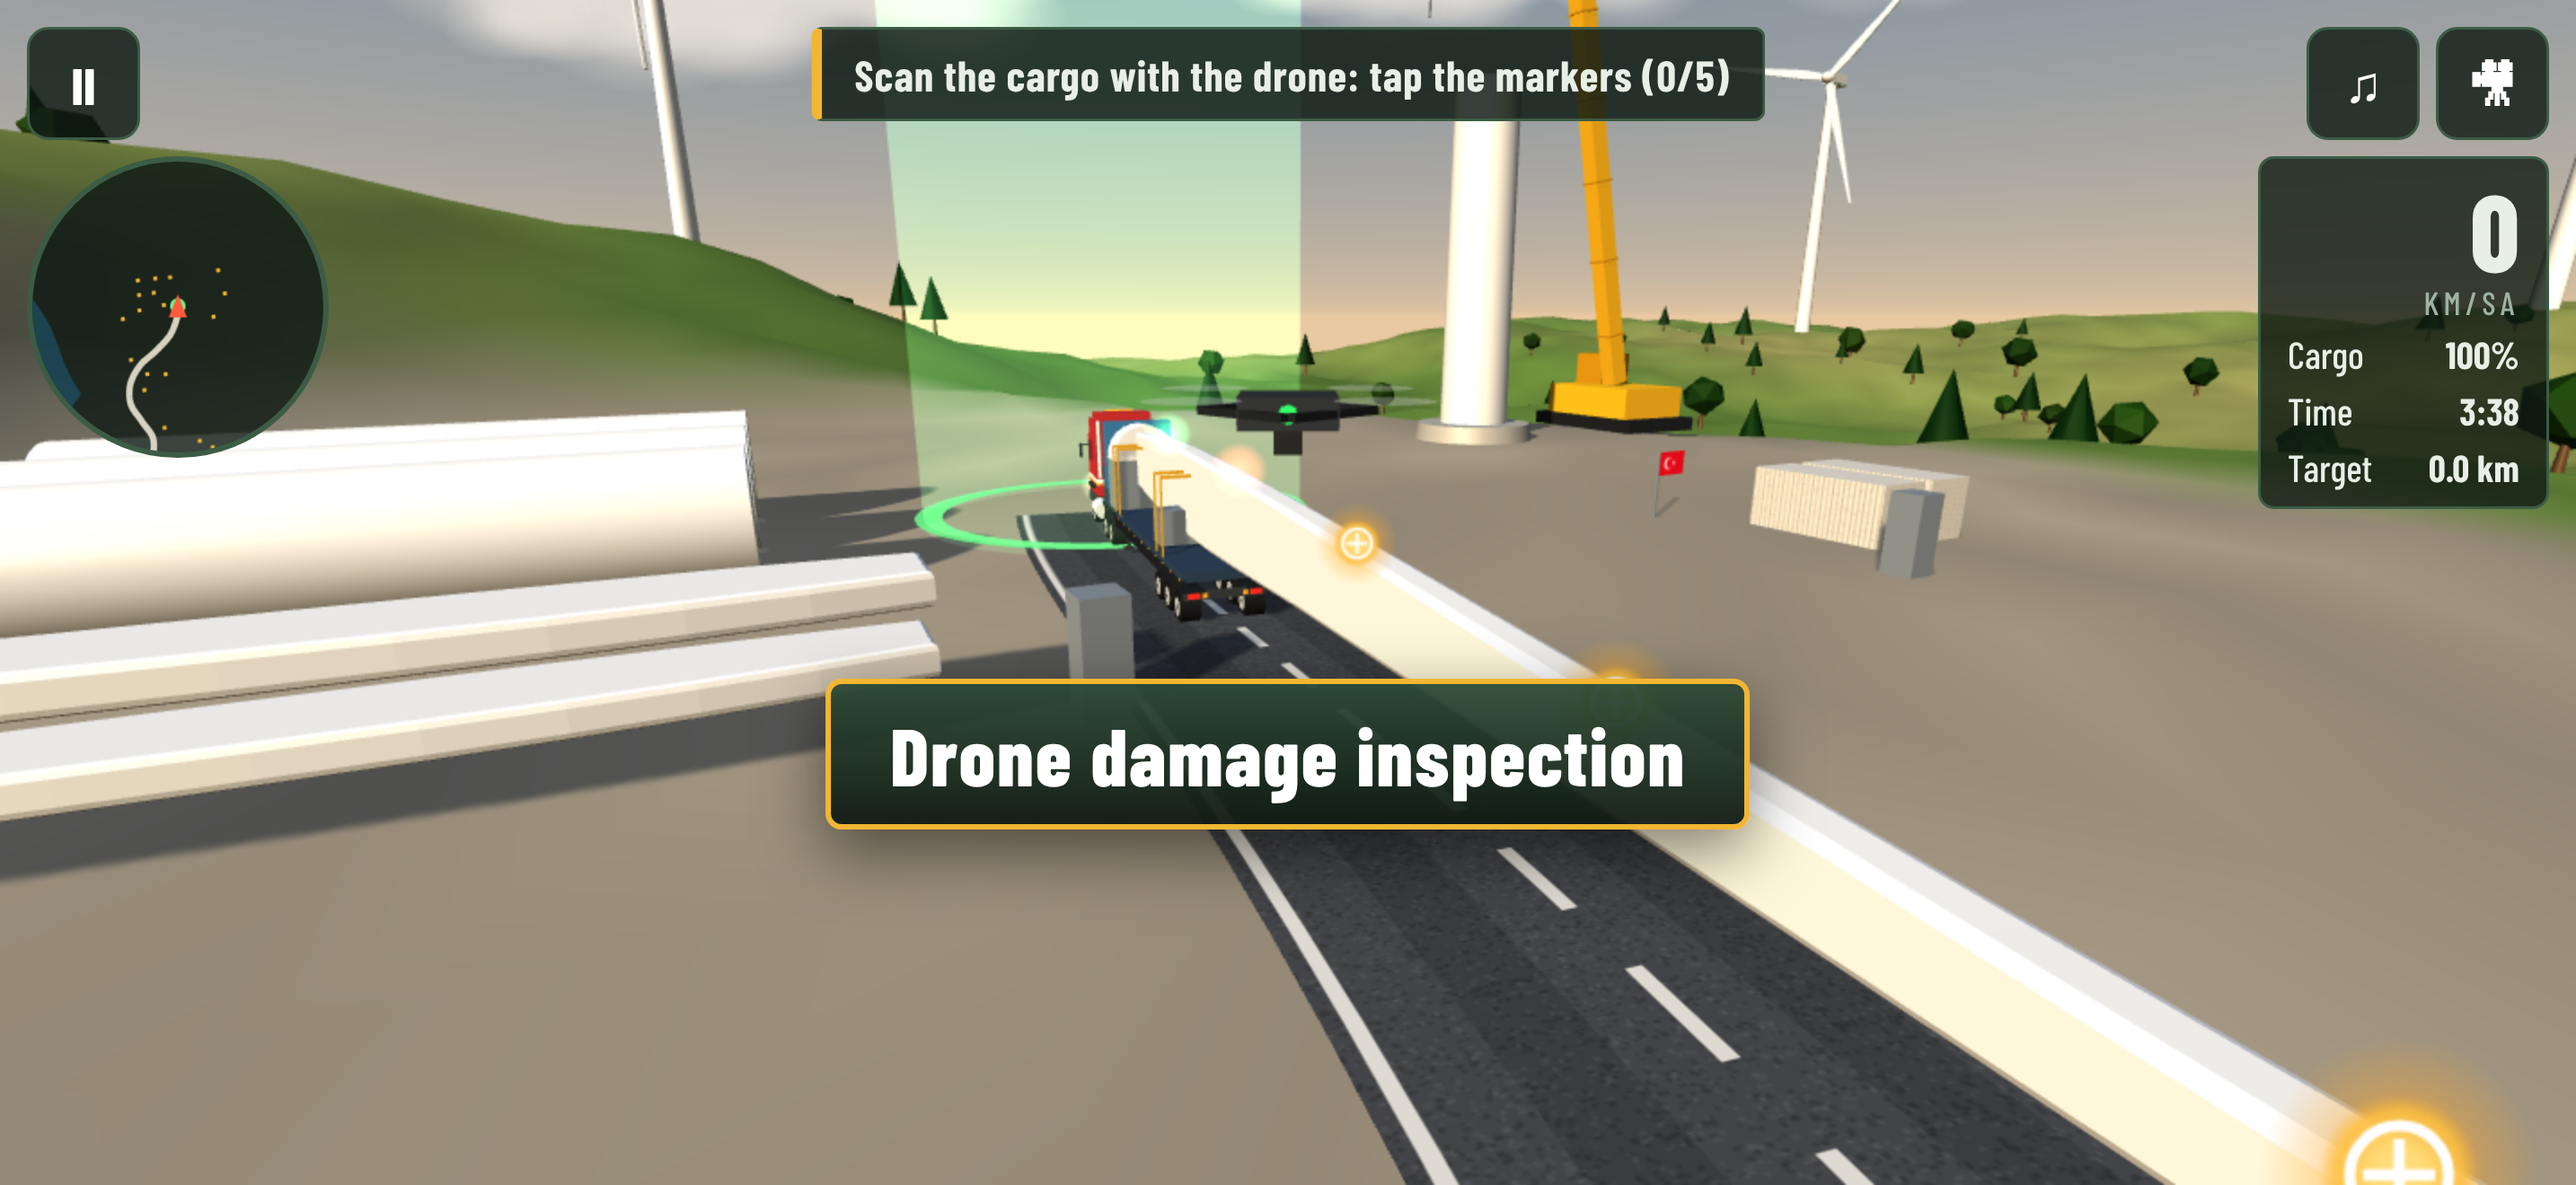
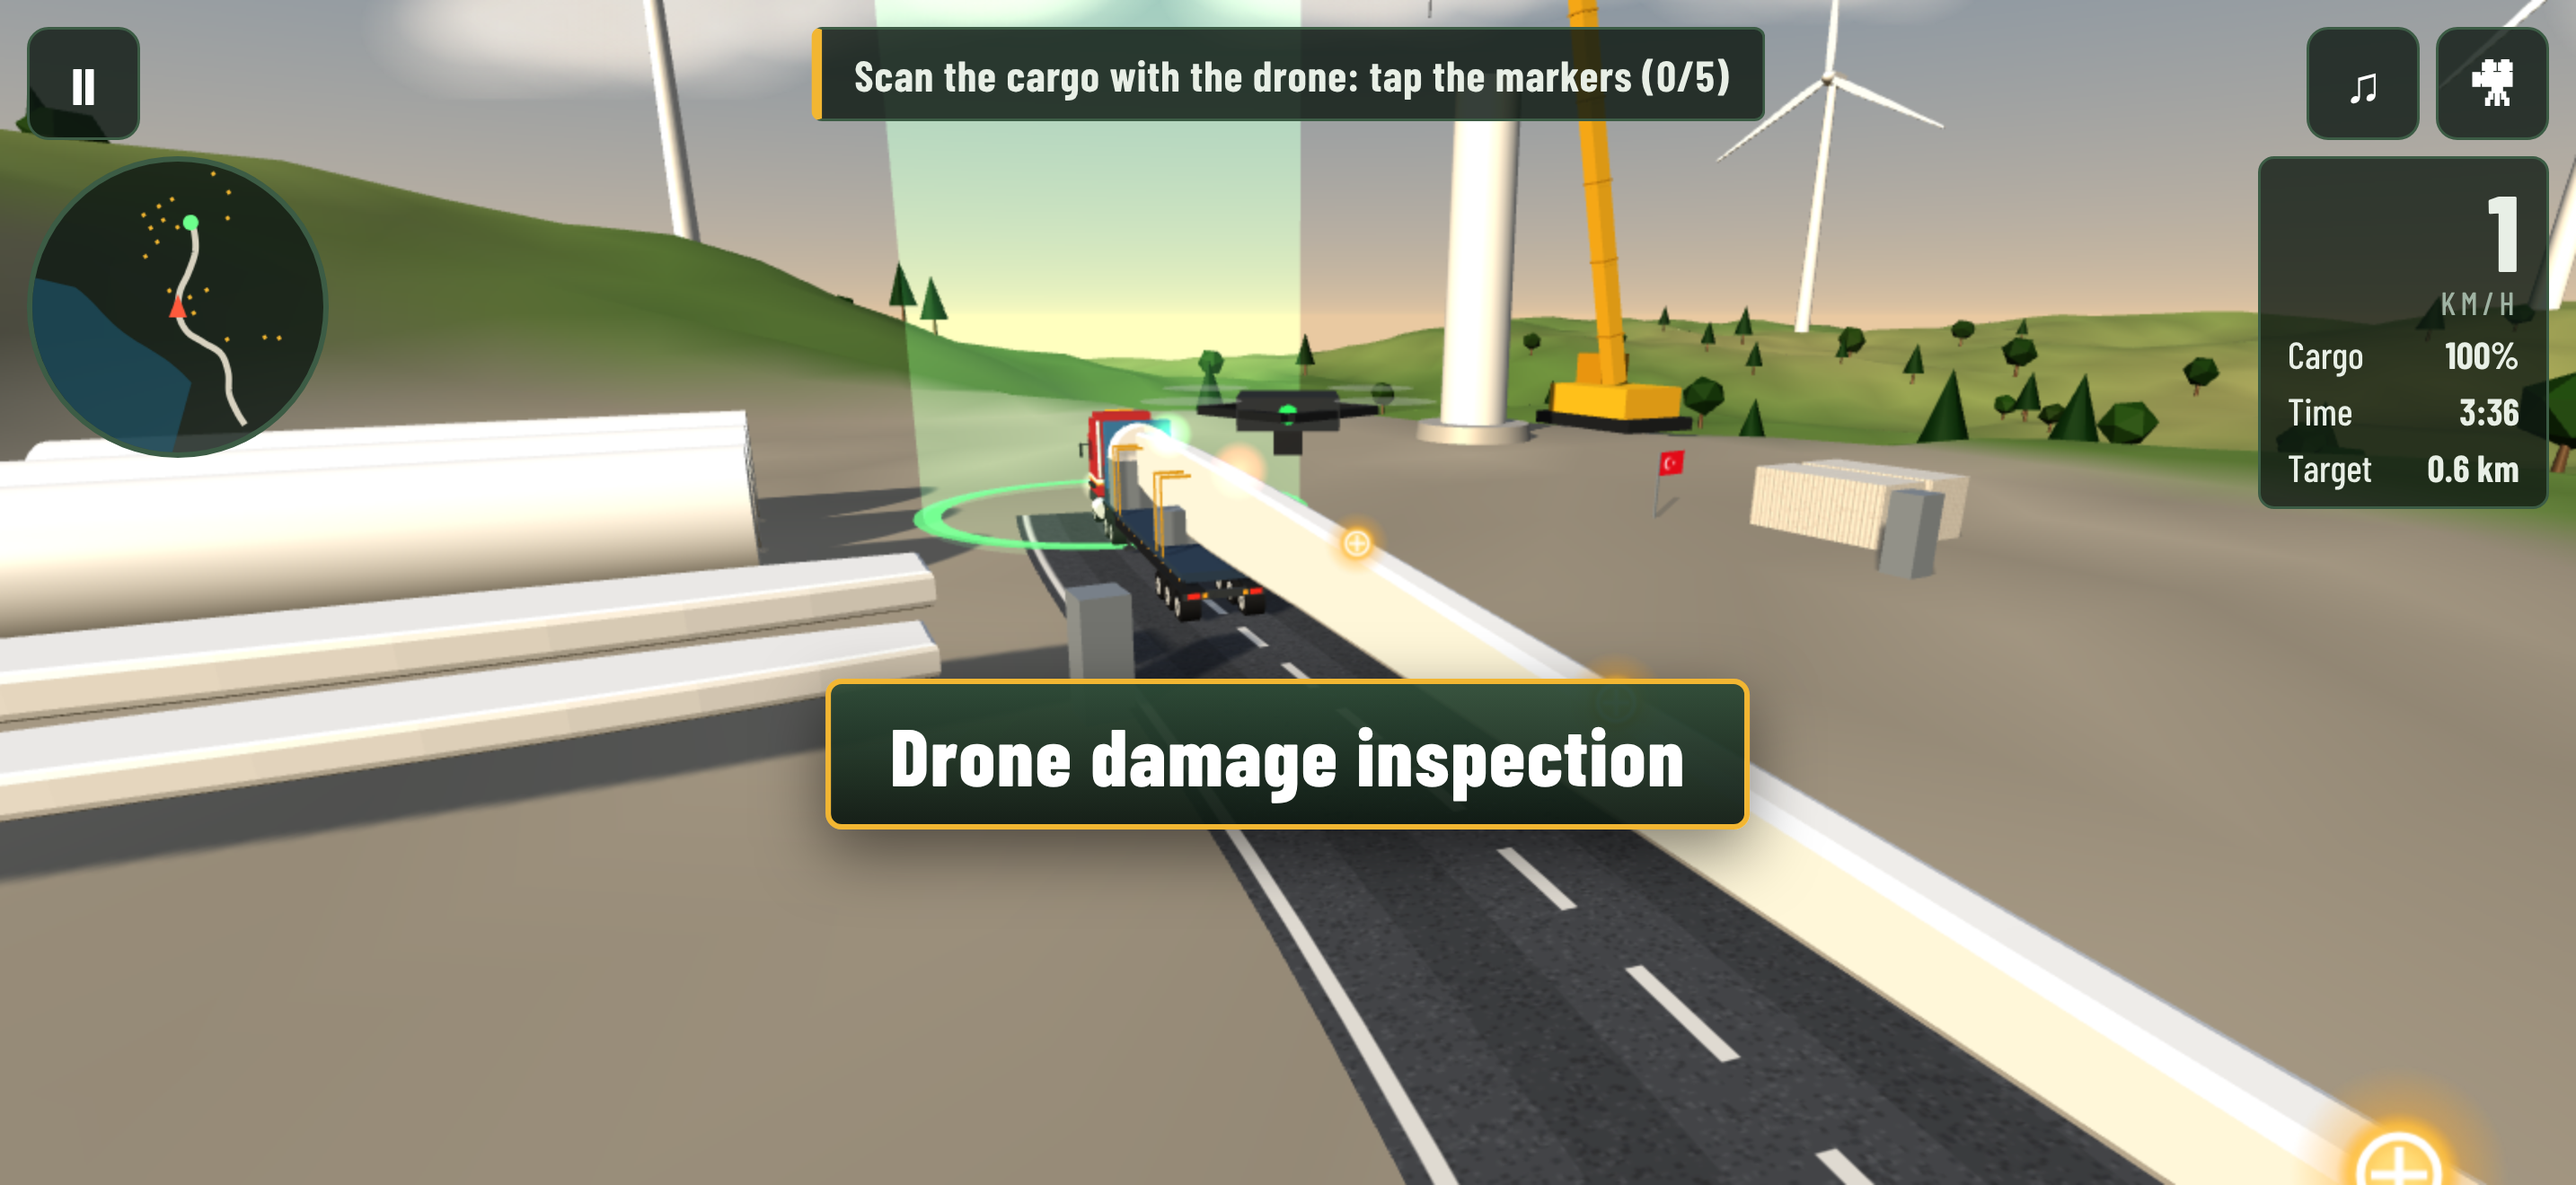
App Store sayfası: metin, görseller (EN hız birimi düzeltildi), fiyat, Tam Sürüm, inceleme notu
Claude-Session: https://claude.ai/code/session_016DWJF61UHkq9kfKhUbEukP

diff --git a/araclar/appstore-hazirla.py b/araclar/appstore-hazirla.py
@@ -70,12 +70,10 @@ for i,t in enumerate(ters):
 r=send('POST','/v2/appAvailabilities',{'data':{'type':'appAvailabilities','attributes':{'availableInNewTerritories':True},'relationships':{'app':{'data':{'type':'apps','id':APP}},'territoryAvailabilities':{'data':refs}}},'included':inc})
 if r.status_code==409: print('bölgeler zaten ayarlı')
 # --- inceleme bilgileri (iletişim Malazgirt'ten)
-notes=('Kervan Yolu is a single-player, offline hill climbing game with 1923 levels. No account or login, no ads, no data collection. '
- 'The first 10 levels are free; the one-time non-consumable in-app purchase "Tam Sürüm / Full Version" (com.anduv.kervanyolu.tamsurum) unlocks levels 11-1923. '
- 'It can be bought from the star button in the main menu or Settings, and restored with "Restore purchases" in the same places. '
- 'On first launch the game asks for the language (Turkish/English). Tap "Yola çık / Hit the road" and hold the right pedal (GAS); the left pedal is BRAKE. '
- 'Vehicles and upgrades are bought only with in-game coins (akçe) earned by playing. '
- 'Settings (gear icon) contains How to Play, Rate, Feedback (opens mail), Recommend to a friend and Delete my data.')
+notes=('Kervan Yolu is a single-player, offline truck driving simulator about wind turbine logistics. No account or login, no ads, no data collection. '
+ 'On launch the game asks for the language (Turkish/English). The first tab is Free Drive (no jobs). The second tab, Jobs, starts job 1: drive the forklift to the crate marked by the yellow arrow, tap LIFT, drive to the trailer, tap DROP (3 crates), tap STRAP DOWN and GET IN TRUCK, drive with the GAS pedal (right) and steering arrows (left) to the green ring at the wind farm, stop and tap DELIVER, then tap the markers on the cargo for the drone inspection. '
+ 'Jobs 1-3 are free; the one-time non-consumable in-app purchase "Tam Sürüm / Full Version" (com.anduv.kervanyolu.tamsurum) unlocks jobs 4-1923. It is offered when job 4 is started and from the star button in the main menu or Settings; "Restore purchase" is in the same places. '
+ 'Settings (gear icon) contains How to Play, Rate, Feedback (opens mail), Recommend and Delete my data.')
 at={'notes':notes,'demoAccountRequired':False}
 mal=get('/v1/apps',**{'filter[bundleId]':'com.anduv.malazgirt'})['data']
 if mal:
@@ -110,11 +108,11 @@ iap=[x for x in iaps if x['attributes']['productId']==PID]
 if iap: iid2=iap[0]['id']; print('IAP var',iid2,iap[0]['attributes'].get('state'))
 else:
     r=send('POST','/v2/inAppPurchases',{'data':{'type':'inAppPurchases','attributes':{'name':'Tam Sürüm','productId':PID,'inAppPurchaseType':'NON_CONSUMABLE','familySharable':False,
-      'reviewNote':'Unlocks levels 11-1923. Offered after level 10 and from the star button in the main menu / Settings. Restore purchases is in the same places.'},'relationships':{'app':{'data':{'type':'apps','id':APP}}}}})
+      'reviewNote':'Unlocks jobs 4-1923. Offered when job 4 is started and from the star button in the main menu / Settings. Restore purchase is in the same places.'},'relationships':{'app':{'data':{'type':'apps','id':APP}}}}})
     iid2=r.json()['data']['id'] if r.status_code<400 else None
 if iid2:
     have={x['attributes']['locale'] for x in get(f'/v2/inAppPurchases/{iid2}/inAppPurchaseLocalizations')['data']}
-    for loc,nm,ds in [('tr','Tam Sürüm','1923 bölümün hepsini ve 10 sahneyi açar'),('en-US','Full Version','Unlocks all 1923 levels and 10 stages')]:
+    for loc,nm,ds in [('tr','Tam Sürüm','1923 seferin hepsini açar'),('en-US','Full Version','Unlocks all 1923 jobs')]:
         if loc not in have: send('POST','/v1/inAppPurchaseLocalizations',{'data':{'type':'inAppPurchaseLocalizations','attributes':{'locale':loc,'name':nm,'description':ds},'relationships':{'inAppPurchaseV2':{'data':{'type':'inAppPurchases','id':iid2}}}}})
     url=f'{B}/v2/inAppPurchases/{iid2}/pricePoints'; q={'filter[territory]':'USA','limit':200}; ipp=None
     while url and not ipp:

diff --git a/araclar/magaza-gorselleri.py b/araclar/magaza-gorselleri.py
@@ -15,7 +15,7 @@ async def frames(pg,n=40):
 async def main():
     async with async_playwright() as p:
         b=await p.chromium.launch(executable_path=os.environ.get('CHROME','/usr/bin/google-chrome'),args=['--use-gl=swiftshader','--enable-webgl','--ignore-gpu-blocklist'])
-        for lang in ['tr','en']:
+        for lang in os.environ.get('LANGS','tr,en').split(','):
             for k,(w,h,d) in SIZES.items():
                 out=os.path.join(KOK,'store','screenshots',lang,k);os.makedirs(out,exist_ok=True)
                 pg=await b.new_page(viewport={'width':w,'height':h},device_scale_factor=d)
